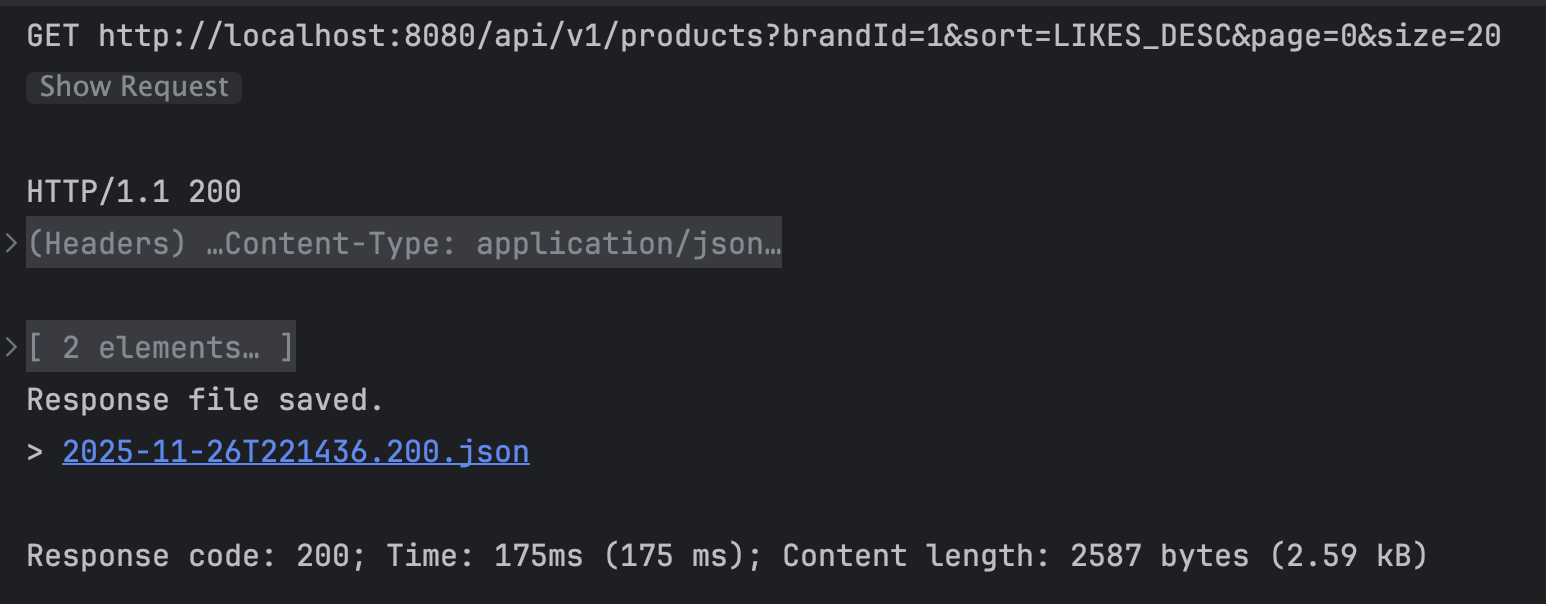
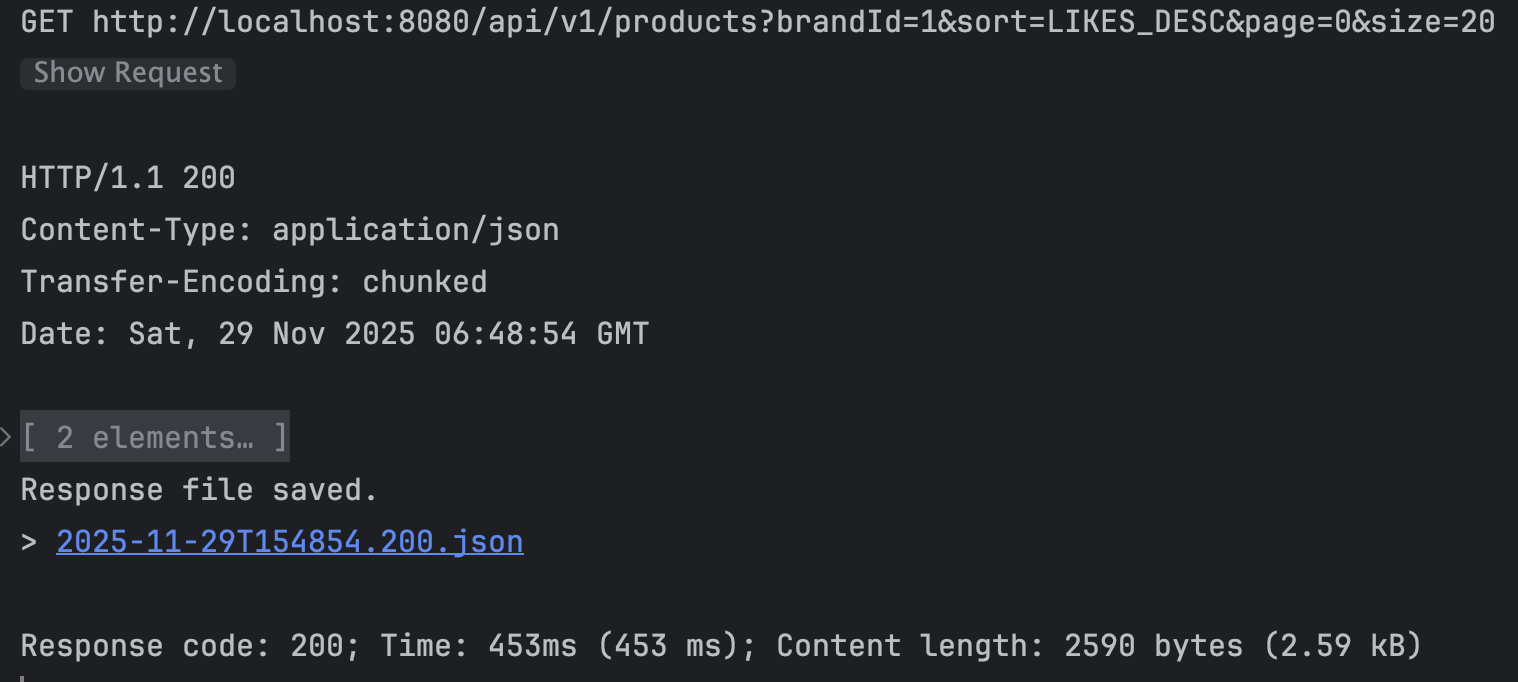
Update index optimization performance metrics with actual measurements
인덱스 적용 후 API 응답 시간을 실제 측정값으로 수정
- 인덱스 적용 후: 636ms → 453ms (1.4배 향상)
- Redis 캐시 적용 후: 636ms → 82ms (7.8배 향상)
- api-response-time-to-be.png 이미지 업데이트

🤖 Generated with [Claude Code](https://claude.com/claude-code)

Changed region(s): [[0.0, 0.2384, 0.5264, 0.8344], [0.0, 0.0, 0.9908, 0.1788], [0.0, 0.894, 0.9289, 0.9834]]

diff --git a/docs/week5/5주차_성능개선_블로그.md b/docs/week5/5주차_성능개선_블로그.md
@@ -215,7 +215,7 @@ class Product(...)
 <!-- 📸 캡처 17: IntelliJ HTTP Client Duration 표시 스크린샷 (TO-BE) -->
 ![API 응답 시간 TO-BE](https://raw.githubusercontent.com/wlghsp/loopers-hodgepodge/master/docs/week5/image/api-response-time-to-be.png)
 
-**636ms → 175ms** (3.6배 향상) 🚀
+**636ms → 453ms** (1.4배 향상) 🚀
 
 ---
 
@@ -329,14 +329,14 @@ redis-cli TTL "products:brand:1:sort:LIKES_DESC:page:0"
 |------|----------|------|
 | **AS-IS** | 초기 상태 | API 636ms, 쿼리 3개 |
 | **1단계** | Aggregate 분리 | 쿼리 2개 (33%↓) |
-| **2단계** | 인덱스 최적화 | API 175ms (3.6배↑) |
-| **3단계** | Redis 캐시 | API 82ms (5.6배↑) |
+| **2단계** | 인덱스 최적화 | API 453ms (1.4배↑) |
+| **3단계** | Redis 캐시 | API 82ms (7.8배↑) |
 
 ### 측정 지표
 
 | 항목 | AS-IS | TO-BE | 개선율 |
 |------|-------|-------|--------|
-| **API 응답 시간** | 636ms | 82-175ms | 최대 7.8배 |
+| **API 응답 시간** | 636ms | 82-453ms | 최대 7.8배 |
 | **쿼리 실행 시간** | 52ms | 15ms | 3.5배 |
 | **쿼리 개수** | 3개 | 0-2개 | 캐시 히트 시 0개 |
 | **DB 부하** | 100% | 20% | 80% 감소 |
